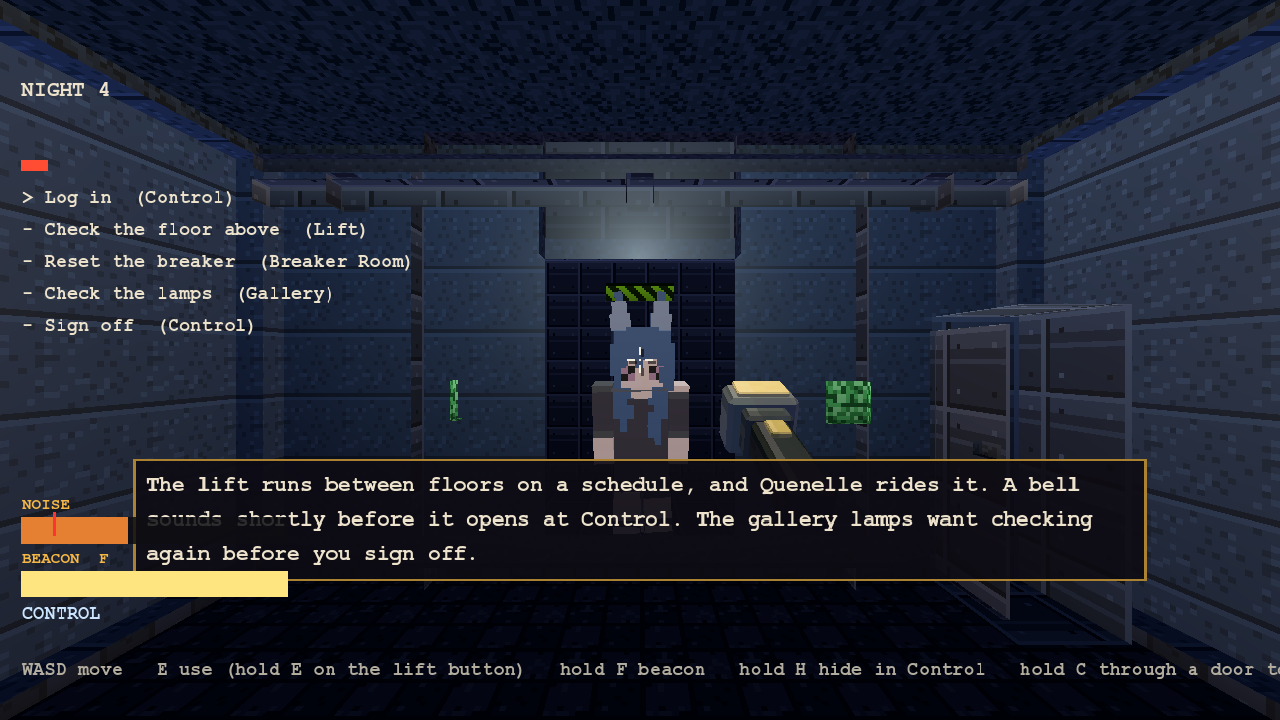
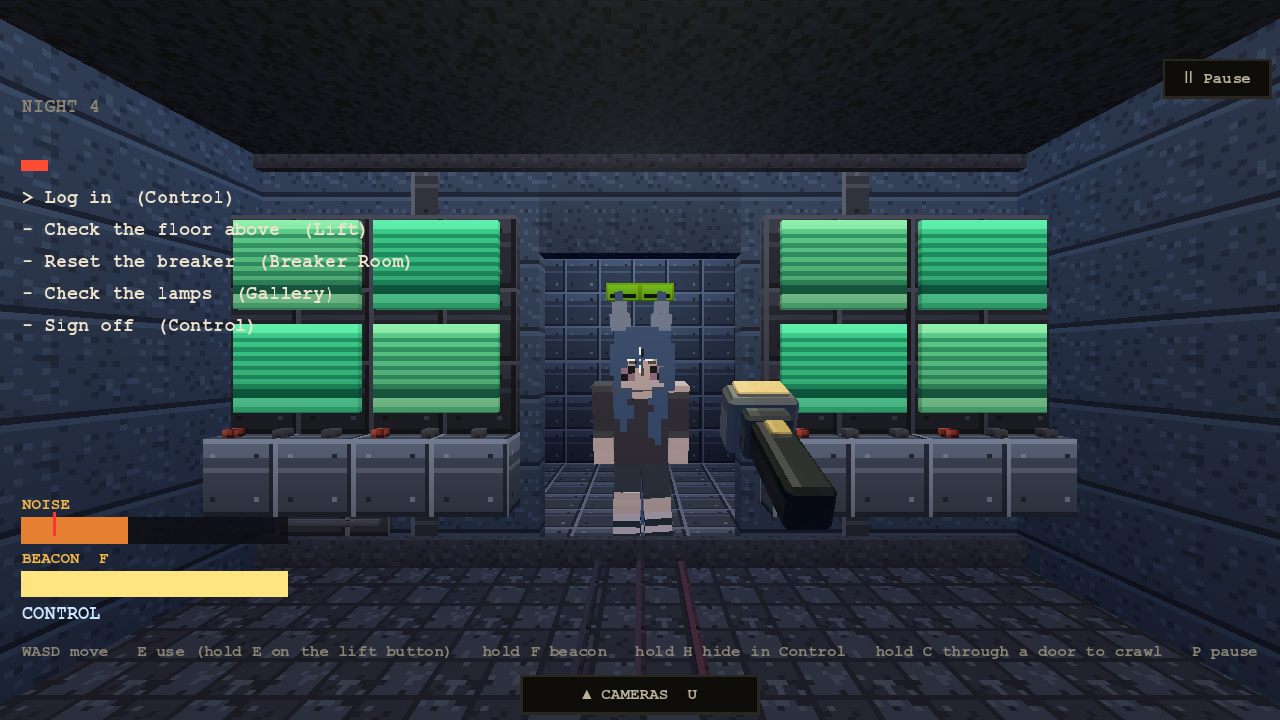
Night Watch 3D: Facility office (control_room) on the office contract; registry lines for the three lane-A offices, office docs rows and capture tool

diff --git a/docs/NIGHT_WATCH_OFFICES.md b/docs/NIGHT_WATCH_OFFICES.md
@@ -44,9 +44,9 @@ Rules for an office:
 |---|---|---|---|---|---|
 | Classic (`classic`) | `classic_security` | the existing security room: two steel doors with panels and lights | doorL, doorR (slab) | yes | built (this lane); polish here |
 | Masked Hours (`mask`) | `front_office` | the day-shift front office / reception with a mask rack: no doors, hall hunters walk in | hall opening, vents | yes | B (nw-modes-b) |
-| Dead Air (`lure`) | `broadcast_booth` | a radio / broadcast booth: reboot panels, vent and a climate dial, glass window | vent, window, door | yes (systems panel) | A (nw-modes-a) |
-| Bedtime (`bedroom`) | `child_bedroom` | a child's bedroom with a closet, a bed and a hall door: listen, no cameras | closet, hall door, bed | no | A |
-| The Facility (`story`) | `control_room` | a control room: a wall of monitors and task panels, six rooms of tasks | door, lift, vent | yes (wall) | A |
+| Dead Air (`lure`) | `broadcast_booth` | **built** (`src/night_watch/lure/lure_office.gd`): a radio / broadcast booth, foam-lined, a glass window onto a dark studio, a mixing console with the systems monitor, a boom mic, a patch rack, an ON AIR lamp; the two ventilation hatches have slatted covers (the DOOR buttons seal them) and service ducts behind. 2D: ![2D](night_watch_offices/broadcast_booth_2d.png) 3D: ![door](night_watch_offices/broadcast_booth_door.png) ![desk](night_watch_offices/broadcast_booth_desk.png) | vent L, vent R, studio window | yes (systems panel) | A (nw-modes-a) |
+| Bedtime (`bedroom`) | `child_bedroom` | **built** (`src/night_watch/bedroom/bedroom_office.gd`): a child's bedroom seen from the pillow, a closet in the west wall, a hall doorway with a long hall in the east wall, the foot of the bed; two flashlight spots, no monitor. 2D: ![2D](night_watch_offices/child_bedroom_2d.png) 3D: ![hall](night_watch_offices/child_bedroom_door.png) ![bed](night_watch_offices/child_bedroom_desk.png) | closet, hall, bed | no | A |
+| The Facility (`story`) | `control_room` | **built** (`src/night_watch/story/story_office.gd`): the control room: a wall of monitors either side of the lift door, a task board, the log-in terminal with its number note, the desk you hide under; doorways to the gallery and the workshop. 2D: ![2D](night_watch_offices/control_room_2d.png) 3D: ![lift door](night_watch_offices/control_room_door.png) ![terminal](night_watch_offices/control_room_desk.png) | door L, door R, lift | yes (monitor wall) | A |
 | The Descent (`descent`) | `lift_landing` | an elevator cabin / shaft landing: wires, signal panel, pipes, a window | window, hatch | no | C (nw-modes-c) |
 | Salvage Run (`dayshift`) | `cargo_bay` | a cargo bay / workshop: a rack to salvage from, a budget desk, doors and a window | two doors, window | yes | B |
 | Open Air (`extra`) | `watch_post` | an outdoor guard booth / roof / bus stop / campfire (three watches): daylight and night outdoor | opening, edge, path | no | C |
